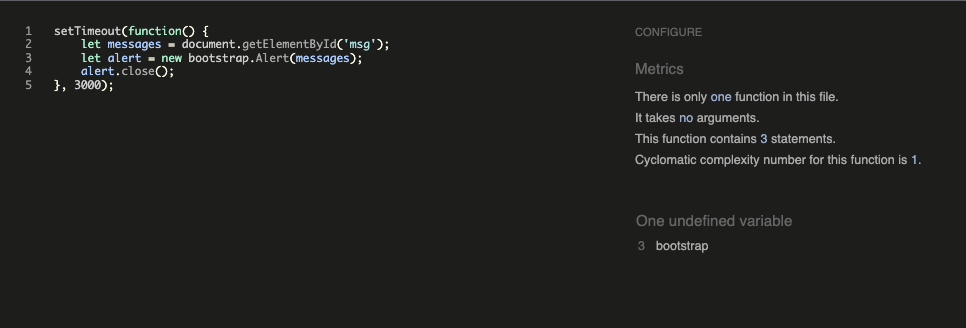
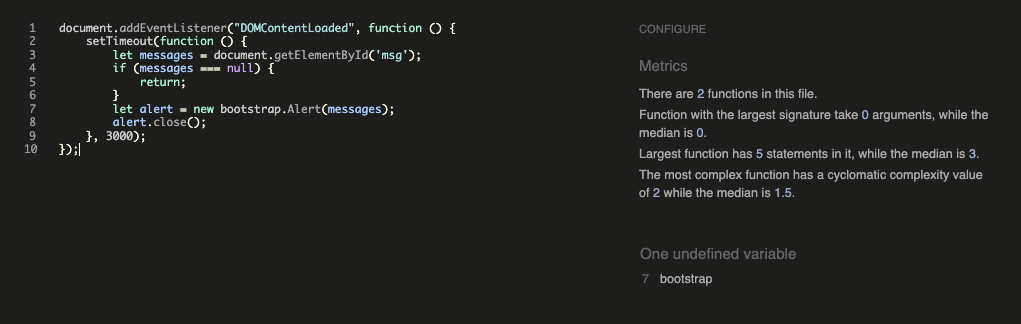
Add Lighthouse testing, adjust DEBUG in settings.py

diff --git a/static/js/script.js b/static/js/script.js
@@ -2,7 +2,7 @@ document.addEventListener("DOMContentLoaded", function () {
     setTimeout(function () {
         let messages = document.getElementById('msg');
         if (messages === null) {
-            return
+            return;
         }
         let alert = new bootstrap.Alert(messages);
         alert.close();

diff --git a/pawse/settings.py b/pawse/settings.py
@@ -31,7 +31,7 @@ TEMPLATES_DIR = os.path.join(BASE_DIR, 'templates')
 SECRET_KEY = os.environ.get('SECRET_KEY')
 
 # SECURITY WARNING: don't run with debug turned on in production!
-DEBUG = False
+DEBUG = os.environ.get('DEBUG', False)
 
 X_FRAME_OPTIONS = 'SAMEORIGIN'
 

diff --git a/cats/views.py b/cats/views.py
@@ -1,4 +1,4 @@
-from django.shortcuts import reverse, HttpResponseRedirect 
+from django.shortcuts import reverse, HttpResponseRedirect
 from django.views import generic
 from .models import Cat, CatApplication
 from django.utils.decorators import method_decorator

diff --git a/TESTING.md b/TESTING.md
@@ -1,10 +1,10 @@
 # Table of Contents
 
 - [Table of Contents](#table-of-contents)
-  - [Responsiveness Testing](#responsiveness-testing)
-  - [Browser Compatibility Testing](#browser-compatibility-testing)
-  - [Bug Testing](#bug-testing)
   - [Lighthouse Testing](#lighthouse-testing)
+    - [Desktop](#desktop)
+    - [Mobile](#mobile)
+  - [WAVE Accessibility Testing](#wave-accessibility-testing)
   - [Code Valitation](#code-valitation)
     - [HTML Validation](#html-validation)
       - [Landing page](#landing-page)
@@ -19,17 +19,128 @@
       - [Pages App](#pages-app)
       - [Menu App](#menu-app)
       - [Cats App](#cats-app)
-  - [User Story Testing](#user-story-testing)
-  - [Feature Testing](#feature-testing)
   - [Automated Testing](#automated-testing)
-
-## Responsiveness Testing
-
-## Browser Compatibility Testing
-
-## Bug Testing
+  - [Manual Testing](#manual-testing)
+    - [UX Testing](#ux-testing)
+    - [Responsiveness Testing](#responsiveness-testing)
+      - [Developer Tools Testing](#developer-tools-testing)
+      - [Device Testing](#device-testing)
+    - [Browser Compatibility Testing](#browser-compatibility-testing)
+    - [User Story Testing](#user-story-testing)
+    - [Feature Testing](#feature-testing)
 
 ## Lighthouse Testing
+
+All pages of the website were tested using the [Lighthouse tool](https://developer.chrome.com/docs/lighthouse/overview/) in Chrome Developer Tools. The testing was done in an incognito browser for best performance. 
+
+Both mobile and desktop performance was checked. The goal was to score 100 on Accessibility, Best Practices and SEO, and to have high scores for Performance where possible. 
+For some pages, the score for SEO went down to 97/98 on mobile, which was due to insufficient spacing around the Social Media links in the footer. Since this did not persist for all pages and it wasn't an issue on Desktop at all, I did not fix it.
+
+Initial Lighthouse runs showed a few issues with color contrasts and wrong headers, as well as one TypeError caused by Bootstrap on the alert message in my custom JavaScript. All of these issues were fixed and subsequent runs of Lighthouse showed high scores as expected. 
+
+### Desktop
+
+Landing Page:
+
+![Landing Page](static/docs/lighthouse-validation/landing-desktop.png)
+
+Menu Page:
+
+![Menu Page](static/docs/lighthouse-validation/menu-desktop.png)
+
+Cats Page:
+
+- Unauthenticated:
+
+![Cats Page Unauthenticated](static/docs/lighthouse-validation/cats-desktop-u.png)
+
+- Authenticated:
+
+![Cats Page Authenticated](static/docs/lighthouse-validation/cats-desktop-a.png)
+
+Application Pages:
+
+- Create Application:
+
+![Create Application](static/docs/lighthouse-validation/application-desktop.png)
+
+- Edit Application:
+
+![Edit Application](static/docs/lighthouse-validation/application-edit-desktop.png)
+
+- Delete Application:
+
+![Delete Application](static/docs/lighthouse-validation/application-delete-desktop.png)
+
+Account Pages:
+
+- Register
+
+![Register](static/docs/lighthouse-validation/register-desktop.png)
+
+- Login
+
+![Login](static/docs/lighthouse-validation/login-desktop.png)
+
+- Logout
+
+![Logout](static/docs/lighthouse-validation/logout-desktop.png)
+
+### Mobile
+
+Landing Page:
+
+![Landing Page](static/docs/lighthouse-validation/landing-mobile.png)
+
+Menu Page:
+
+![Menu Page](static/docs/lighthouse-validation/menu-mobile.png)
+
+Cats Page:
+
+- Unauthenticated:
+
+![Cats Page Unauthenticated](static/docs/lighthouse-validation/cats-mobile-u.png)
+
+- Authenticated:
+
+![Cats Page Authenticated](static/docs/lighthouse-validation/cats-mobile-a.png)
+
+Application Pages:
+
+- Create Application:
+
+![Create Application](static/docs/lighthouse-validation/application-mobile.png)
+
+- Edit Application:
+
+![Edit Application](static/docs/lighthouse-validation/application-edit-mobile.png)
+
+- Delete Application:
+
+![Delete Application](static/docs/lighthouse-validation/application-delete-mobile.png)
+
+Account Pages:
+
+- Register
+
+![Register](static/docs/lighthouse-validation/register-mobile.png)
+
+- Login
+
+![Login](static/docs/lighthouse-validation/login-mobile.png)
+
+- Logout
+
+![Logout](static/docs/lighthouse-validation/logout-mobile.png)
+
+## WAVE Accessibility Testing
+
+The site was tested using the [WAVE web accessibility evaluation tool](https://wave.webaim.org/). 
+
+The result showed no errors. One of the two alerts is for a redundant link (the Pawse logo leading to the landing page, as well as the Pawse text leading to the landing page right next to it). The other alert points out the HTML5 video on the landing page.
+
+![WAVE results](static/docs/wave-validation.png)
 
 ## Code Valitation
 
@@ -112,7 +223,100 @@ admin.py and models.py were not used.
 
 On urls.py the `noqa` tag was used on the line importing the views, since I deemed it less readable if I split this up on several lines.
 
-## User Story Testing
+## Automated Testing
+
+Unit tests were written for all three apps (pages, menu and cats) to ensure that no bugs were missed. 
+
+Almost all statements were tested with few exceptions.
+
+The test coverage for the apps is as follows:
+
+![Test Coverage](static/docs/coverage.png)
+
+## Manual Testing
+
+While manual testing tends to take up a lot of time compared to automated testing, the site also underwent a comprehensive suit of manual testing to ensure that it works as expected.
+
+One big advantage of manual testing is that one can test the actual User Experience of the site, which cannot be tested using automated tests, since it is somewhat subjective how a user judges the experience. 
+
+Additionally, the manual testing approach ensures an end-to-end integrated testing of the application features and the actual database instead of testing single code statements.
+
+### UX Testing
+
+The site was shared with friends and family during different stages of development and feedback was collected and implemented continuously. 
+
+Examples for feedback that came up during UX testing: 
+
+- The hero image on the home page felt not engaging enough and it was suggested to have something moving, which led to the image being replaced by a video
+  - This also led to the zoom effect on the Cats page being implemented, to make it more dynamic
+- The login, register and logout were tested by most users and deemed very intuitive and easy, as well as functional
+- The site was judged to be navigated easily
+- The design was judged to be pleasant
+
+### Responsiveness Testing
+
+The site was tested continuously on different screen sizes using both Chrome Developer Tools, as well as mobile devices. 
+
+Sometimes, the landing page would show a margin on the right side on mobile devices, both in Chrome Developer Tools as well as on actual devices. This was not consistently reproducible and happened on different kinds of devices and the root cause for it happening remains unknown. Usually, reloading the page would fix this. 
+Since this was not reproducible and happened across all devices, I did not put it down as an issue of the testing itself. 
+
+The page was tested in the following way on all devices listed below:
+
+- Navigated to every page using the nav bar/hamburger menu
+- Scrolled over every page and checked that all parts are rendered correctly
+- Logged in/logged out of the page on every device
+- Checked that logging in/out redirects to the previous page
+- Clicked on buttons on cat page to create/edit/delete applications
+- Created/edited/deleted applications
+- Checked that alert messages show up correctly and disappear automatically
+- Checked that form validation works
+- Checked that autoplay on hero video works
+- Checked that zoom on Cats page works
+
+#### Developer Tools Testing
+
+iPhone 5/SE: All features tested, no issues
+
+iPhone 12 Pro: All features tested, no issues
+
+Samsung Galaxy S8+: All features tested, no issues
+
+iPad Air: All features tested, no issues
+
+#### Device Testing
+
+iPhone 12 Pro: All features tested, no issues
+
+iPhone 14 Pro: All features tested, no issues
+
+iPad mini: All features tested, no issues
+
+### Browser Compatibility Testing
+
+Browser compatibility testing was done on desktop only. 
+
+The page was tested in the following way on all browsers listed below:
+
+- Navigated to every page using the nav bar/hamburger menu
+- Scrolled over every page and checked that all parts are rendered correctly
+- Logged in/logged out of the page on every device
+- Checked that logging in/out redirects to the previous page
+- Clicked on buttons on cat page to create/edit/delete applications
+- Created/edited/deleted applications
+- Checked that alert messages show up correctly and disappear automatically
+- Checked that form validation works
+- Checked that the hover effect on links works
+- Checked that autoplay on hero video works
+- Checked that zoom on Cats page works
+
+Browsers:
+
+- Chrome: All features tested, no issues
+- Safari: All features tested, no issues
+- Firefox: All features tested, no issues
+- Edge: All features tested, no issues
+
+### User Story Testing
 
 | **Epic**                               | **User Story**                                                                                                                        | Testing Method & Expected Outcome                                                                                                                                                                                                                                                                                                                                                                                                                                                                                                                                                                                                                                                       | Result                                                                                     | Comment |
 |----------------------------------------|---------------------------------------------------------------------------------------------------------------------------------------|-----------------------------------------------------------------------------------------------------------------------------------------------------------------------------------------------------------------------------------------------------------------------------------------------------------------------------------------------------------------------------------------------------------------------------------------------------------------------------------------------------------------------------------------------------------------------------------------------------------------------------------------------------------------------------------------|--------------------------------------------------------------------------------------------|---------|
@@ -142,12 +346,5 @@ On urls.py the `noqa` tag was used on the line importing the views, since I deem
 |                                        | As an authenticated user/site admin I want to be asked to confirm deletion so that I don't accidentally delete something wrong        |                                                                                                                                                                                                                                                                                                                                                                                                                                                                                                                                                                                                                                                                                         |                                                                                            |         |
 | Site Owner Features                    | As a site owner, I want the site to be visually pleasing so that users like to come back/share it                                     |                                                                                                                                                                                                                                                                                                                                                                                                                                                                                                                                                                                                                                                                                         |                                                                                            |         |
 
-## Feature Testing
+### Feature Testing
 
-## Automated Testing
-
-Automated tests were written for all three apps: pages, menu and cats. 
-
-The coverage for these apps is as follows:
-
-![Test Coverage](static/docs/coverage.png)

diff --git a/README.md b/README.md
@@ -216,7 +216,7 @@ Site Admin features:
 
 ## Testing & Validation
 
-<!-- Add content in TESTING.md -->
+All testing and validation is documented in [TESTING.md](TESTING.md)
 
 ## Deployment & Development
 
